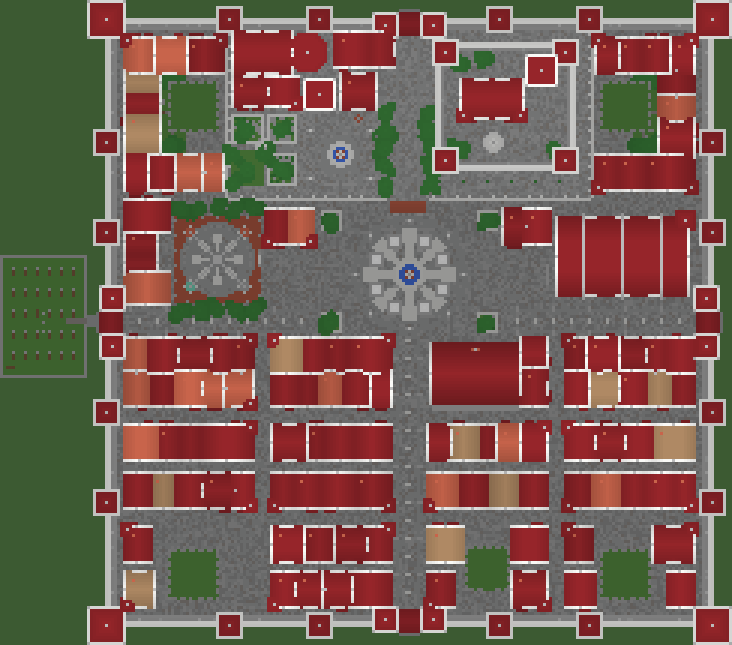
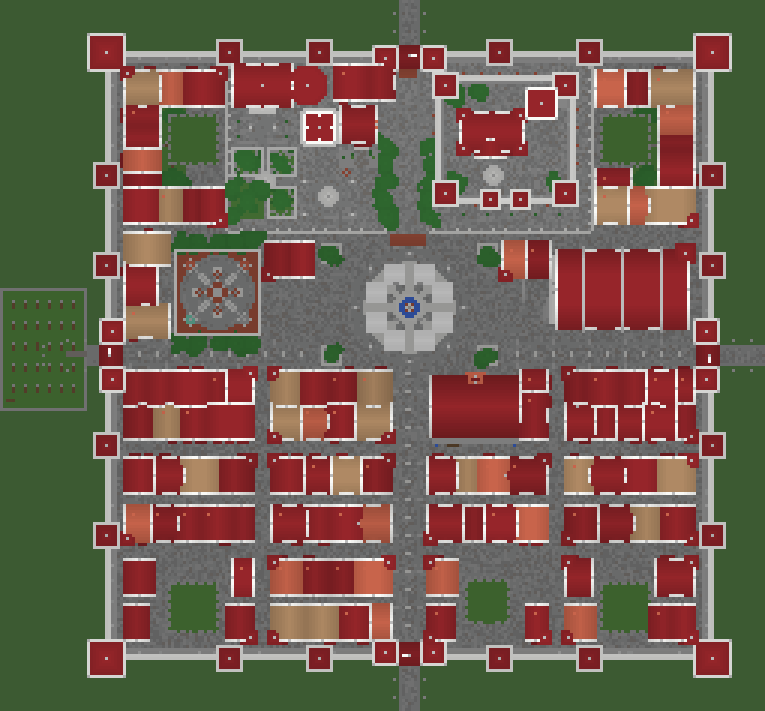
Docs: capital facility contents, sealed houses, capital message boards, shrine rebirth altar

diff --git a/docs/design/33_world_and_map.md b/docs/design/33_world_and_map.md
@@ -88,6 +88,8 @@
 | 以後 | 転生の台座（社）、ギルドの家（組合の奥）、図鑑の間（砦） | それぞれの仕組みの解放（31・10 の 7） | — |
 
 - 閉じている施設も**外から見える**（壁と鉄の戸・鉄格子と碑だけ。中は空のまま建ててある）。開くのは**世界で一度**（`CapitalDoors`。章は人ごとだが都は一つの共有の場所なので、最初に条件に達した人が居るときに戸と格子が消え、碑の文が「開いた」文に変わり、全員に一行の知らせ）。きっかけの実装: 組合 = イサナと会った（絆の印 `met`）、社と砦の記録の間 = 順に止めた巨神が 2、館 = 3。記録は宿りの場所の extra（`opened_<施設>`）。
+- 今の中身（設計図 `tools/capital/town.py` の `furnish_*`）: 組合 = 言伝ての板 2 枚（日替わり・週替わりの頼み。都では鐘のそばに板を自動で立てない）、長机と腰掛け、帳場、暖炉、地図台、吊るした鯨の骨、二階の寝台 6。砦の記録の間 = 順位の石（`rebirth_stone`）と記録の板（`record_board`）2 枚、本棚と書見台。社 = 中央の祭壇が転生の台座（社が開いたあと右クリックで転生の画面、そのまわり 24 で転生できる。`Rebirth.nearAltar`）。館の書庫 = 本棚の列と閲覧の机（読み返しの仕組みはまだ）。名簿・鍵の間（欠片を納める）・前の私の頁はまだ。
+- 物語に関係のない町家・塔・門楼には入れない（中は埋め、窓の奥は暗く、戸は壁に貼った跳ね上げ戸）。入れるのは語り部の家・大鐘楼の一階・鍛冶場・開いた施設・門・空き区画。
 - 碑を見ると序章の伝承に記される（`prologue/capital_skywatch`・`capital_guild_roll`・`capital_graveyard`・`capital_gates`。05 の 8.1）。語り部は「この都は、どこも戸が閉じている」で空見の一族と最後の鐘守のことを一度だけ話す（07）。
 
 - **一つだけ**: 世界に町は一つ。遅れて入った人も同じ町に目覚める（野営地は人ごとに別の向きでもよい）。

diff --git a/docs/design/07_npc_quest.md b/docs/design/07_npc_quest.md
@@ -460,7 +460,7 @@ data/<名前空間>/quest/<名前>.json
 | 項目 | 決まり |
 | --- | --- |
 | 見た目 | 二本柱と小さな庇、紙が三枚、鯨骨の留め釘が一本。32px。3 案（`docs/review/board_roughs/compare.png`）から A を採用し、ゲームで見て地面すれすれが低い棚に見えたので y=6 まで上げて脚を見せた（当たり判定も 16 の高さ）。生成は `tools/gen_message_board.py --option A\|B\|C` |
-| 置かれ方 | 村の鐘（集会所）から 48 ブロック以内に人が来たとき、その村にまだ板がなければ、鐘から 3〜6 ブロックの所に鐘のほうを向けて一枚立てる。村ごとに一度だけ（壊されても立て直さない。記録は `skyabyss_free_quests`。NPC のいない所でも見つけられるため）。実装: `FreeQuestEvents.placeBoard` |
+| 置かれ方 | 都（鐘の宿り）では組合の中に設計図が 2 枚置き、鐘のそばには立てない（`FreeQuestData.markBoard`）。ほかの村では、村の鐘（集会所）から 48 ブロック以内に人が来たとき、その村にまだ板がなければ、鐘から 3〜6 ブロックの所に鐘のほうを向けて一枚立てる。村ごとに一度だけ（壊されても立て直さない。記録は `skyabyss_free_quests`。NPC のいない所でも見つけられるため）。実装: `FreeQuestEvents.placeBoard` |
 | 作る | 紙 3・板材 3・棒 2（どこにでも置ける。どの板も同じ頼みを映す） |
 | 右クリック | 今日の頼みごとの画面。品を納める頼みは、開いたときに手持ちから受け取る |
 | 画面 | 紙の札を並べる。題（週替わりは金の縁）、何をするか、状態（受ける / 受けている / 済んだ / 今日はもう受けられない / まだ）、仲間が受けている数。札に重ねると全文と報酬。上に「今日受けた頼み 1 / 3」と「次の張り替えまで、およそ N 分」。語り部の「頼みごと」からは、会話の画面と入れ替えて開く |

diff --git a/docs/design/31_freedom_and_rebirth.md b/docs/design/31_freedom_and_rebirth.md
@@ -37,7 +37,7 @@
 
 | 項目 | 案 |
 |---|---|
-| 条件 | Lv 50 に着く。結晶 5（B12 の代価を選んだとき）。戦いの外、鼓動の間の「転生の台座」で |
+| 条件 | Lv 50 に着く。結晶 5（B12 の代価を選んだとき）。戦いの外、鼓動の間の「転生の台座」か、都の四巨神の社の祭壇（社が開いたあと。33 の 2.2）で |
 | 残るもの | 装備・ポーチ・結晶・素材・巨神の進み（共有の背）・実績・図鑑・称号・魂盤・残響・熟練（A13）・転生回数と記録 |
 | 戻るもの | レベル（1）・技の点・ステータスの点・天職・刻印の選択・型の保存（型は残す選択肢もあり。決定 3） |
 | 表示 | 「Lv 50+n」。色と記号は C01・C02。内部は `rebirths` と `level`（1〜50） |
